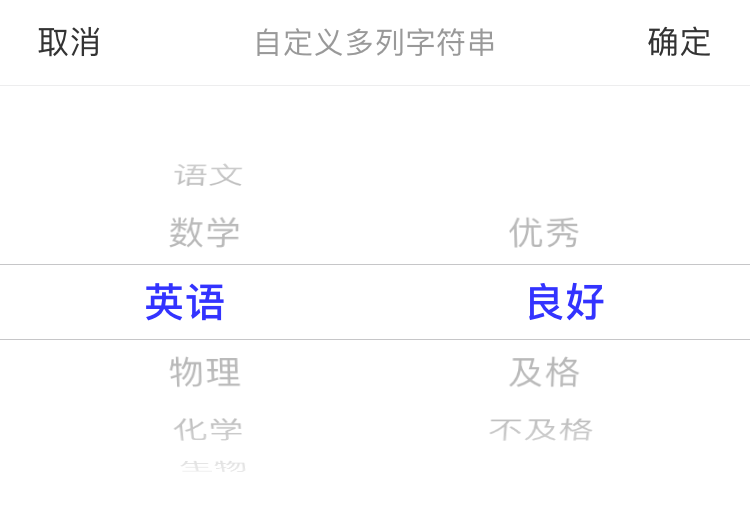
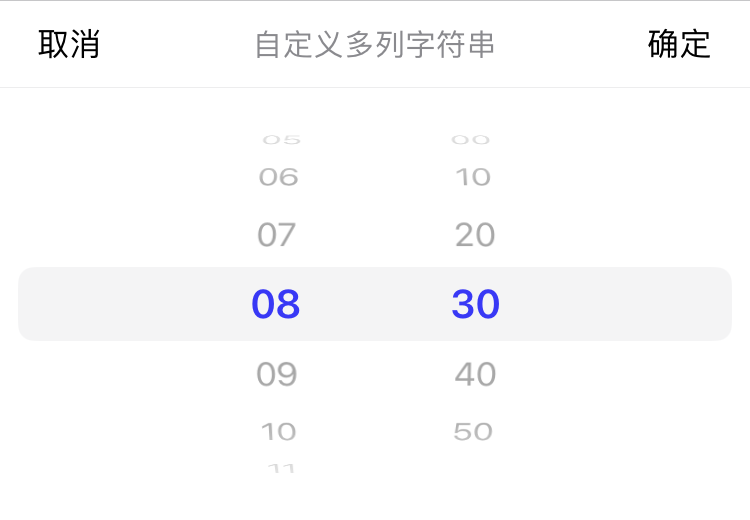
优化代码

diff --git a/BRPickerView/StringPickerView/BRStringPickerView.m b/BRPickerView/StringPickerView/BRStringPickerView.m
@@ -258,11 +258,12 @@
     switch (self.pickerMode) {
         case BRStringPickerComponentSingle:
             return 1;
-            break;
         case BRStringPickerComponentMulti:
         case BRStringPickerComponentLinkage:
+            if (self.pickerStyle.columnSpacing > 0) {
+                return self.mDataSourceArr.count * 2 - 1;
+            }
             return self.mDataSourceArr.count;
-            break;
             
         default:
             break;
@@ -278,6 +279,13 @@
         case BRStringPickerComponentMulti:
         case BRStringPickerComponentLinkage:
         {
+            if (self.pickerStyle.columnSpacing > 0) {
+                if (component % 2 == 1) {
+                    return 1;
+                } else {
+                    component = component / 2;
+                }
+            }
             NSArray *itemArr = self.mDataSourceArr[component];
             return itemArr.count;
         }
@@ -304,24 +312,6 @@
         // 自适应最小字体缩放比例
         label.minimumScaleFactor = 0.5f;
     }
-    if (self.pickerMode == BRStringPickerComponentSingle) {
-        id item = self.mDataSourceArr[row];
-        if ([item isKindOfClass:[BRResultModel class]]) {
-            BRResultModel *model = (BRResultModel *)item;
-            label.text = model.value;
-        } else {
-            label.text = item;
-        }
-    } else if (self.pickerMode == BRStringPickerComponentMulti || self.pickerMode == BRStringPickerComponentLinkage) {
-        NSArray *itemArr = self.mDataSourceArr[component];
-        id item = [itemArr objectAtIndex:row];
-        if ([item isKindOfClass:[BRResultModel class]]) {
-            BRResultModel *model = (BRResultModel *)item;
-            label.text = model.value;
-        } else {
-            label.text = item;
-        }
-    }
     
     // 2.设置选择器中间选中行的样式
     [self.pickerStyle setupPickerSelectRowStyle:pickerView titleForRow:row forComponent:component];
@@ -332,6 +322,37 @@
     if (selectRow >= 0) {
         self.rollingComponent = component;
         self.rollingRow = selectRow;
+    }
+
+    // 设置文本
+    if (self.pickerMode == BRStringPickerComponentSingle) {
+        id item = self.mDataSourceArr[row];
+        if ([item isKindOfClass:[BRResultModel class]]) {
+            BRResultModel *model = (BRResultModel *)item;
+            label.text = model.value;
+        } else {
+            label.text = item;
+        }
+    } else if (self.pickerMode == BRStringPickerComponentMulti || self.pickerMode == BRStringPickerComponentLinkage) {
+        
+        // 如果有设置列间距，且是第奇数列，则不显示内容（即空白间隔列）
+        if (self.pickerStyle.columnSpacing > 0) {
+            if (component % 2 == 1) {
+                label.text = @"";
+                return label;
+            } else {
+                component = component / 2;
+            }
+        }
+        
+        NSArray *itemArr = self.mDataSourceArr[component];
+        id item = [itemArr objectAtIndex:row];
+        if ([item isKindOfClass:[BRResultModel class]]) {
+            BRResultModel *model = (BRResultModel *)item;
+            label.text = model.value;
+        } else {
+            label.text = item;
+        }
     }
     
     return label;
@@ -383,6 +404,15 @@
             break;
         case BRStringPickerComponentMulti:
         {
+            // 处理选择器有设置列间距时，选择器的滚动问题
+            if (self.pickerStyle.columnSpacing > 0) {
+                if (component % 2 == 1) {
+                    return;
+                } else {
+                    component = component / 2;
+                }
+            }
+            
             if (component < self.selectIndexs.count) {
                 NSMutableArray *mutableArr = [self.selectIndexs mutableCopy];
                 [mutableArr replaceObjectAtIndex:component withObject:@(row)];
@@ -404,6 +434,15 @@
             break;
         case BRStringPickerComponentLinkage:
         {
+            // 处理选择器有设置列间距时，选择器的滚动问题
+            if (self.pickerStyle.columnSpacing > 0) {
+                if (component % 2 == 1) {
+                    return;
+                } else {
+                    component = component / 2;
+                }
+            }
+            
             if (component < self.selectIndexs.count) {
                 NSMutableArray *selectIndexs = [[NSMutableArray alloc]init];
                 for (NSInteger i = 0; i < self.selectIndexs.count; i++) {
@@ -484,6 +523,9 @@
 
 // 设置列宽
 - (CGFloat)pickerView:(UIPickerView *)pickerView widthForComponent:(NSInteger)component {
+    if (self.pickerStyle.columnSpacing > 0 && component % 2 == 1) {
+        return self.pickerStyle.columnSpacing;
+    }
     NSInteger columnCount = [self numberOfComponentsInPickerView:pickerView];
     CGFloat columnWidth = self.pickerView.bounds.size.width / columnCount;
     if (self.pickerStyle.columnWidth > 0 && self.pickerStyle.columnWidth <= columnWidth) {
@@ -503,11 +545,19 @@
         [self.pickerView selectRow:self.selectIndex inComponent:0 animated:NO];
     } else if (self.pickerMode == BRStringPickerComponentMulti || self.pickerMode == BRStringPickerComponentLinkage) {
         for (NSInteger i = 0; i < self.selectIndexs.count; i++) {
-            NSNumber *index = [self.selectIndexs objectAtIndex:i];
-            [self.pickerView selectRow:[index integerValue] inComponent:i animated:NO];
+            NSNumber *row = [self.selectIndexs objectAtIndex:i];
+            NSInteger component = i;
+            if (self.pickerStyle.columnSpacing > 0) {
+                component = i * 2;
+            }
+            [self.pickerView selectRow:[row integerValue] inComponent:component animated:NO];
         }
     }
 }
+
+// 0 【1】 2 【3】 4 【5】
+// 0 2 4
+// 0 1 2
 
 - (void)addPickerToView:(UIView *)view {
     // 1.添加选择器

diff --git a/BRPickerViewDemo/Classes/Demo/Controller/TestViewController.m b/BRPickerViewDemo/Classes/Demo/Controller/TestViewController.m
@@ -466,19 +466,29 @@ typedef NS_ENUM(NSInteger, BRTimeType) {
             
         case 8:
         {
-            /// 多列字符串
+            /// 自定义多列字符串选择器
             BRStringPickerView *stringPickerView = [[BRStringPickerView alloc]init];
             stringPickerView.pickerMode = BRStringPickerComponentMulti;
-            stringPickerView.title = @"多列选择器";
-            stringPickerView.dataSourceArr = @[@[@"语文", @"数学", @"英语", @"物理", @"化学", @"生物"], @[@"优秀", @"良好", @"及格", @"不及格"]];
+            stringPickerView.title = @"自定义多列字符串";
+            stringPickerView.dataSourceArr = @[@[@"01", @"02", @"03", @"04", @"05", @"06", @"07", @"08", @"09", @"10", @"11", @"12"], @[@"00", @"10", @"20", @"30", @"40", @"50"]];
             stringPickerView.isAutoSelect = YES;
             stringPickerView.resultModelArrayBlock = ^(NSArray<BRResultModel *> *resultModelArr) {
-                textField.text = [NSString stringWithFormat:@"%@ %@", resultModelArr[0].value, resultModelArr[1].value];
+                textField.text = [NSString stringWithFormat:@"%@:%@", resultModelArr[0].value, resultModelArr[1].value];
             };
             
-            // 使用模板样式2
-            BRPickerStyle *customStyle = [BRPickerStyle pickerStyleWithDoneTextColor:[UIColor blueColor]];
-            customStyle.columnWidth = 80;
+            // 设置自定义样式
+            BRPickerStyle *customStyle = [[BRPickerStyle alloc]init];
+            // 设置 picker 的列宽
+            customStyle.columnWidth = 30;
+            // 设置 picker 的列间隔
+            customStyle.columnSpacing = 60;
+            // 设置圆角矩形背景
+            // 方式1：使用系统自带样式，保留iOS14之后系统默认的圆角样式。
+            customStyle.clearPickerNewStyle = NO;
+            // 方式2：可以使用UIView自定义一个圆角矩形视图rectView，并添加到 alertView 上也能实现同样的效果（[stringPickerView.alertView addSubview:rectView];）
+            // 设置选择器中间选中行的样式
+            customStyle.selectRowTextFont = [UIFont boldSystemFontOfSize:20.0f];
+            customStyle.selectRowTextColor = [UIColor blueColor];
             stringPickerView.pickerStyle = customStyle;
             
             [stringPickerView show];
@@ -551,6 +561,8 @@ typedef NS_ENUM(NSInteger, BRTimeType) {
             BRPickerStyle *customStyle = [[BRPickerStyle alloc]init];
             customStyle.selectRowTextFont = [UIFont boldSystemFontOfSize:20.0f];
             customStyle.selectRowTextColor = [UIColor blueColor];
+            customStyle.columnWidth = 60;
+            customStyle.columnSpacing = 10;
             stringPickerView.pickerStyle = customStyle;
             
             [stringPickerView show];
@@ -846,7 +858,7 @@ typedef NS_ENUM(NSInteger, BRTimeType) {
 
 - (NSArray *)titleArr {
     if (!_titleArr) {
-        _titleArr = @[@"姓名", @"性别", @"出生年月", @"出生时刻", @"联系方式", @"地址", @"学历", @"融资", @"多列选择", @"二级联动选择", @"三级联动选择"];
+        _titleArr = @[@"姓名", @"性别", @"出生年月", @"出生时刻", @"联系方式", @"地址", @"学历", @"融资", @"自定义多列选择", @"二级联动选择", @"三级联动选择"];
     }
     return _titleArr;
 }

diff --git a/BRPickerView/Base/BRPickerStyle.h b/BRPickerView/Base/BRPickerStyle.h
@@ -187,11 +187,12 @@ typedef NS_ENUM(NSInteger, BRBorderStyle) {
 /** 设置 picker 的高度，系统默认高度为 216 */
 @property (nonatomic, assign) CGFloat pickerHeight;
 
-/** 设置 picker 的行高。暂不支持日期选择器前4种类型 */
+/** 设置 picker 的行高 */
 @property (nonatomic, assign) CGFloat rowHeight;
-
-/** 设置 picker 的列宽。暂不支持日期选择器前4种类型 */
+/** 设置 picker 的列宽 */
 @property (nonatomic, assign) CGFloat columnWidth;
+/** 设置 picker 的列间隔，仅支持`BRStringPickerView` */
+@property (nonatomic, assign) CGFloat columnSpacing;
 
 /**
  *  清除iOS14之后选择器默认自带的新样式。暂不支持日期选择器前4种类型
